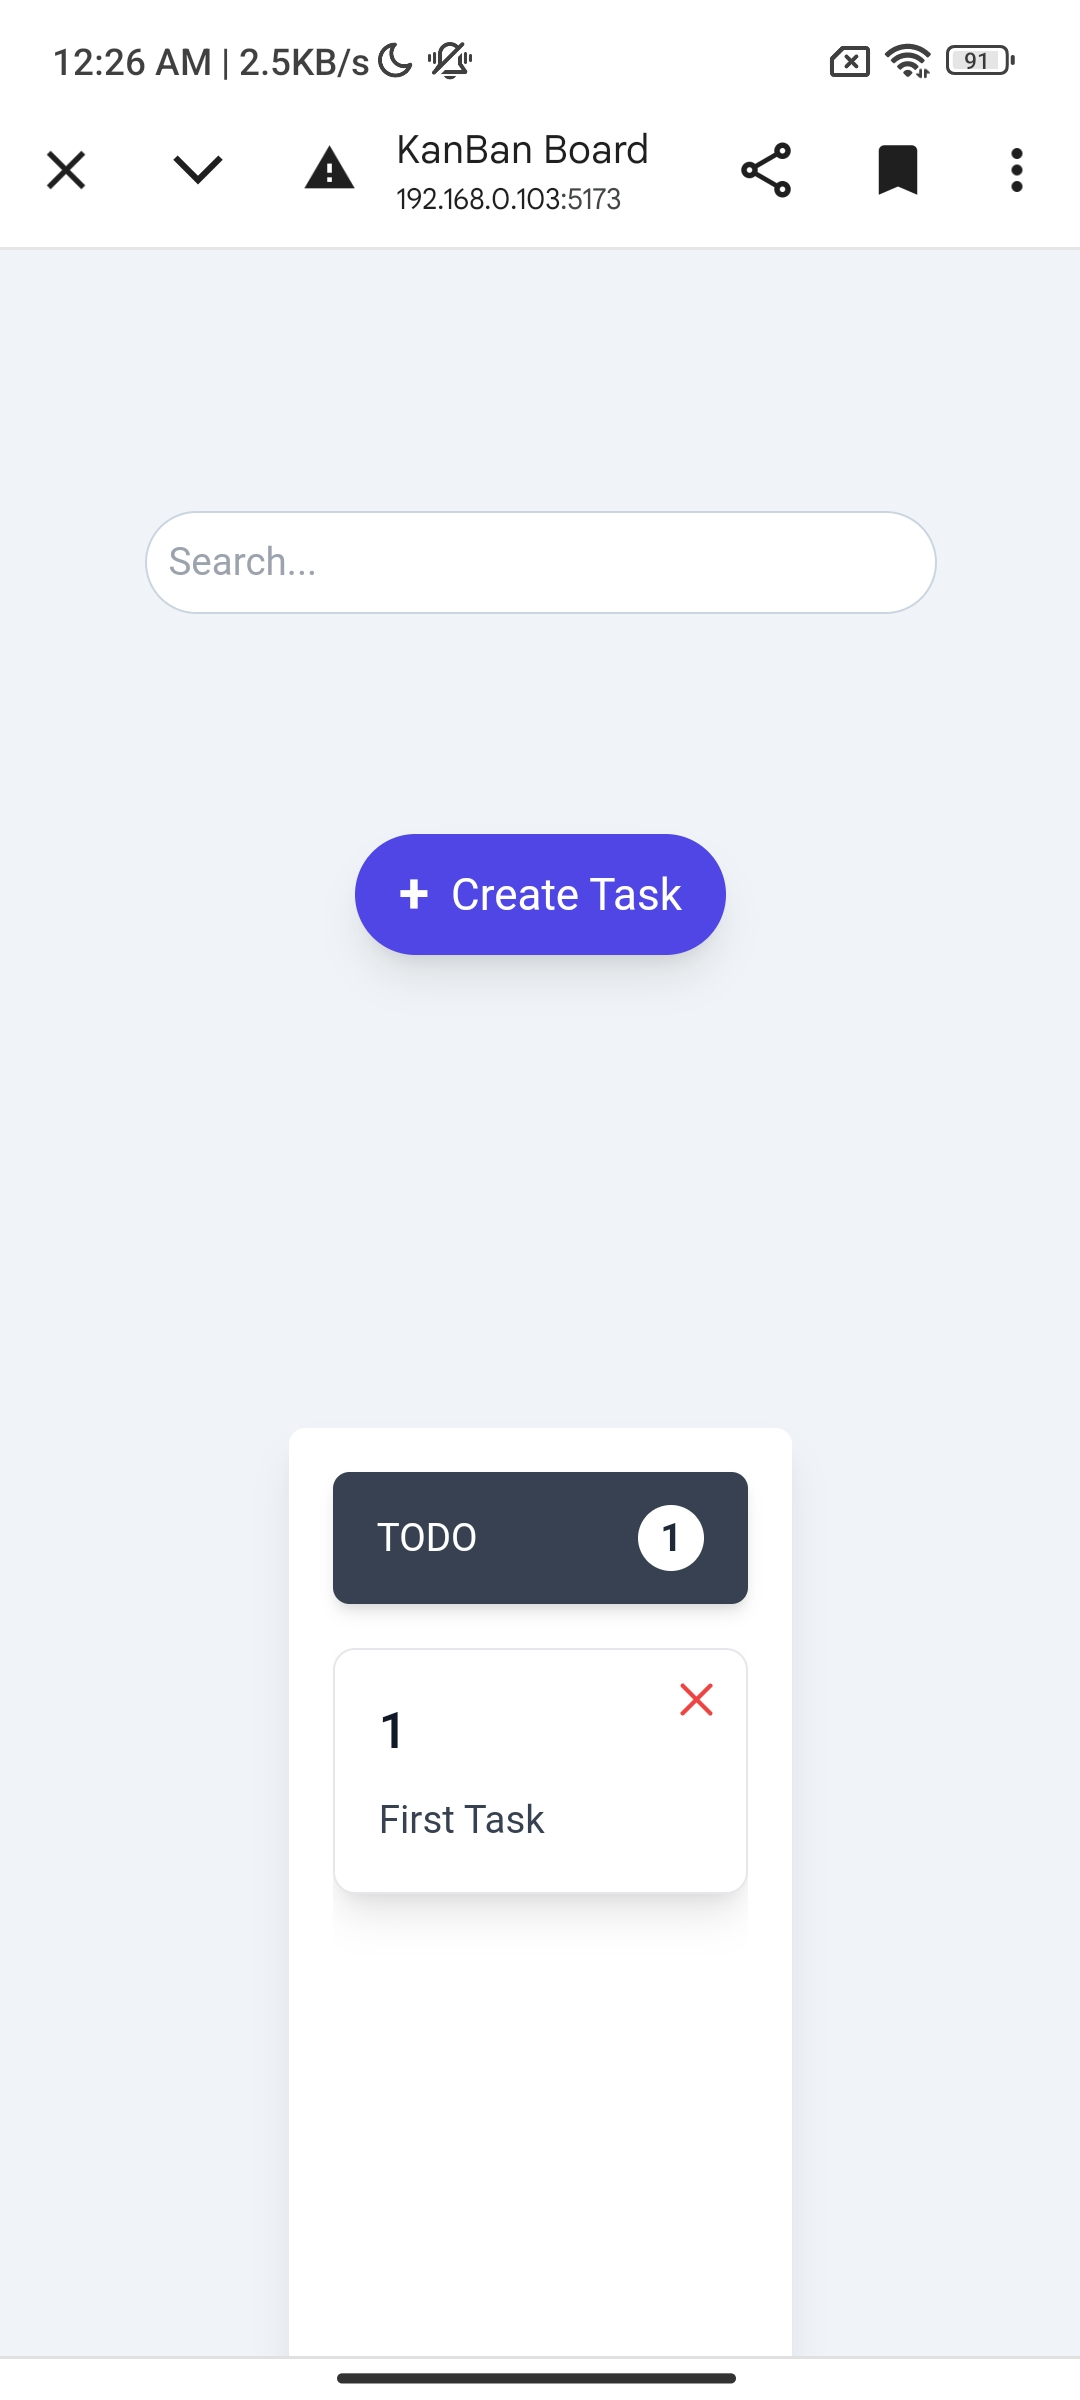
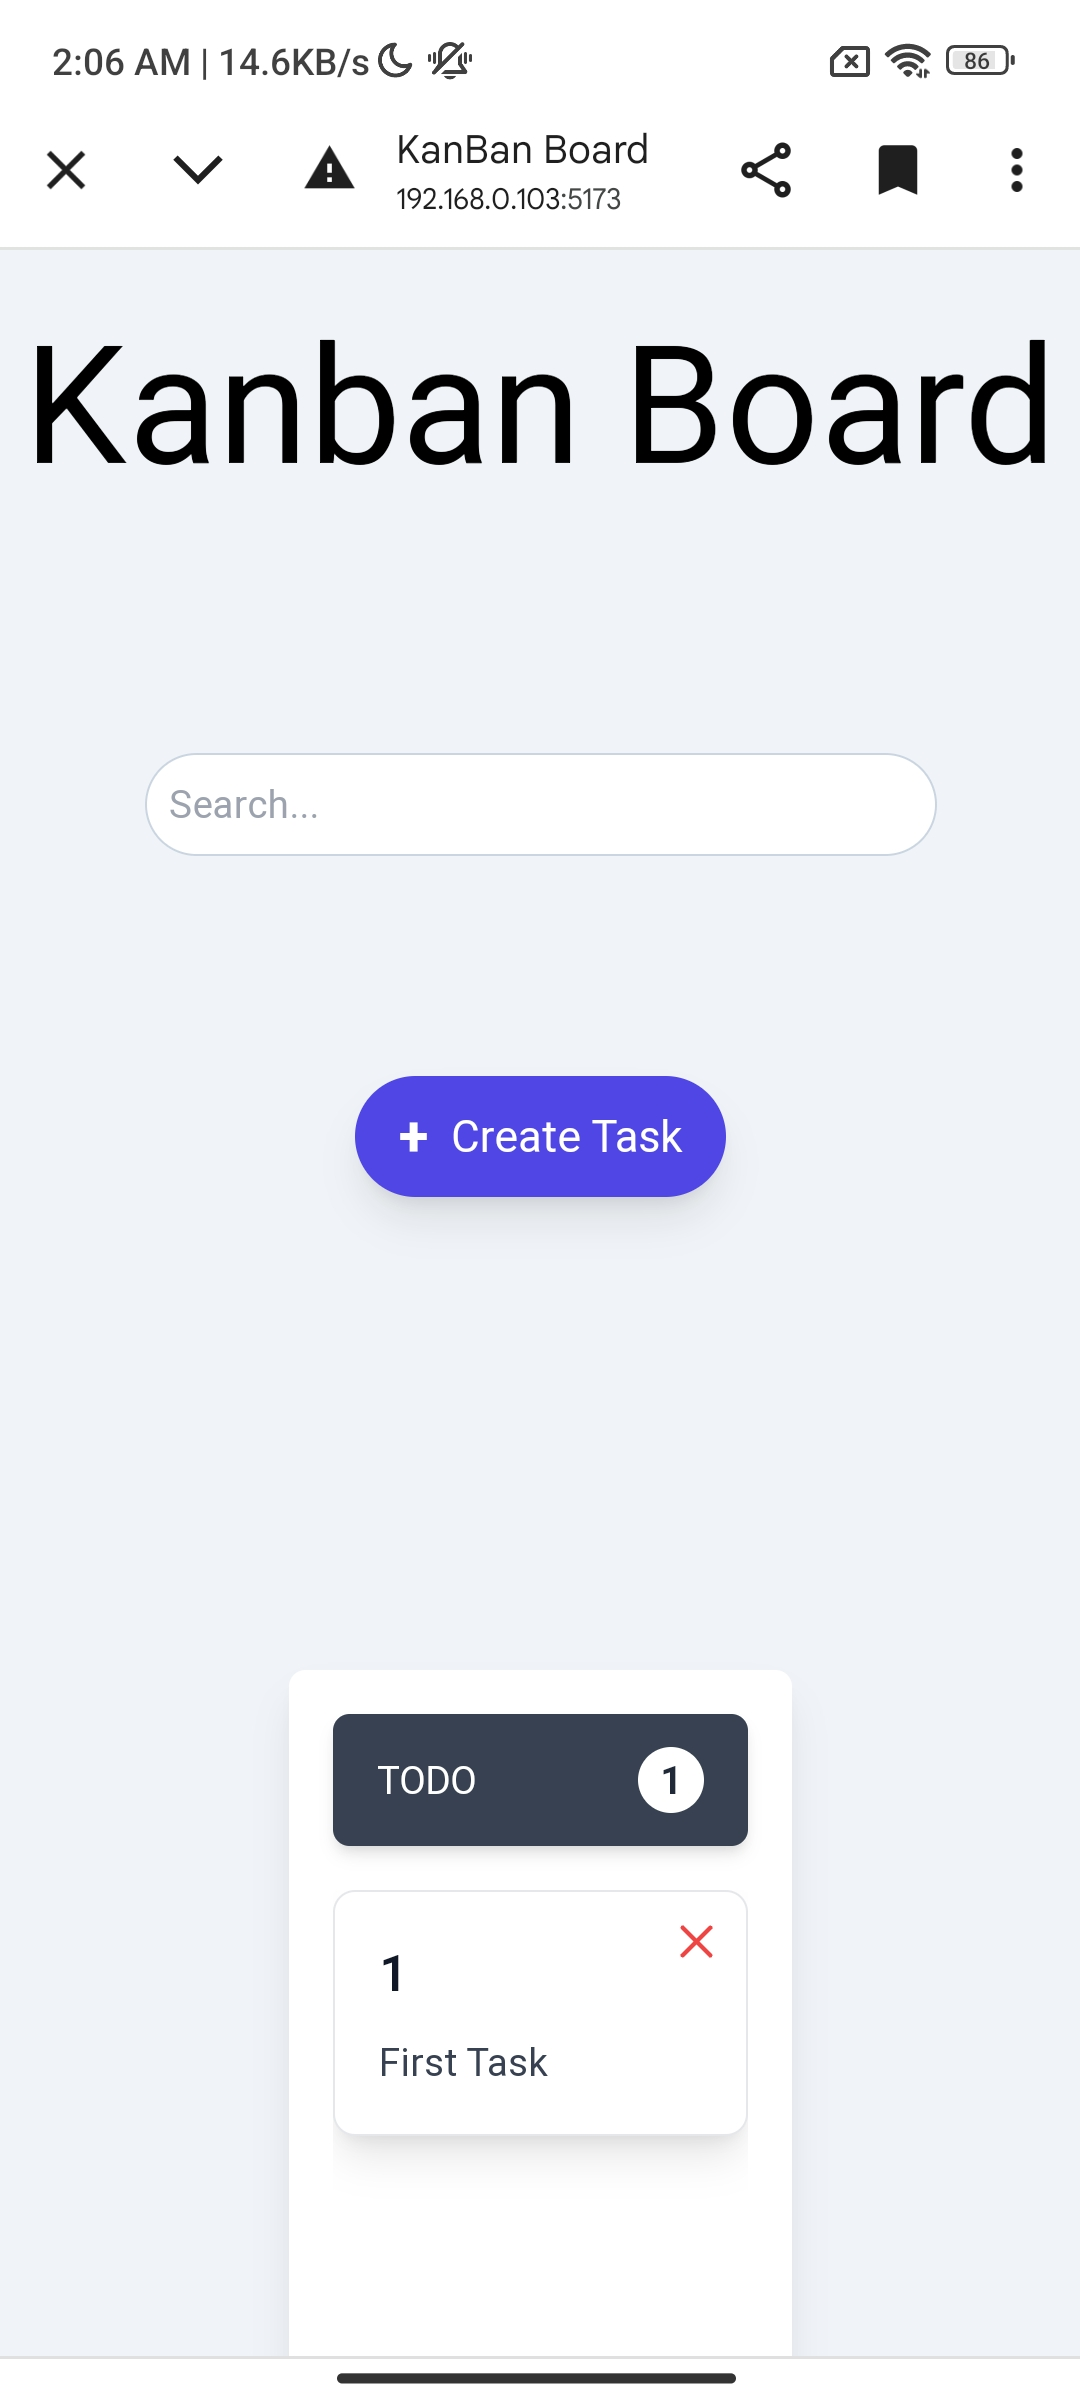
update header

diff --git a/src/App.jsx b/src/App.jsx
@@ -25,6 +25,7 @@ function App() {
     <>
       <DndProvider backend={isMobile ? TouchBackend : HTML5Backend}>
         <Toaster />
+        <p className='text-6xl text-center mt-7'>Kanban Board</p>
         <div className="flex flex-wrap justify-center p-3 gap-16 pt-24">
           <Search
             searchQuery={searchQuery}

diff --git a/README.md b/README.md
@@ -26,16 +26,24 @@ Clone the repository:
     git clone https://github.com/AbhishekIT22112002/KanbanBoard.git
 ```
 
+To access directory:
+
+```bash
+    cd KanbanBoard
+```
+
 Install dependencies:
 
 ```bash
     npm install
 ```
+
 Start the development server:
 
 ```bash
     npm run dev
 ```
+
 Build for production:
 
 ```bash
